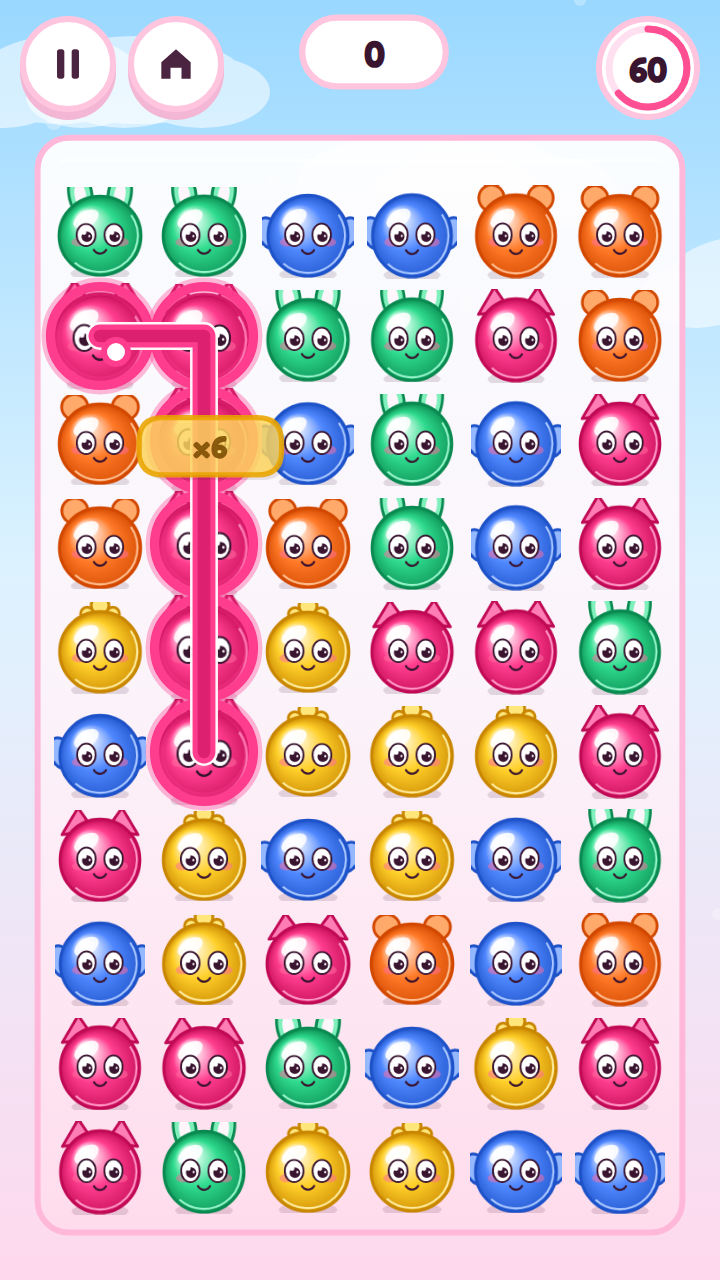
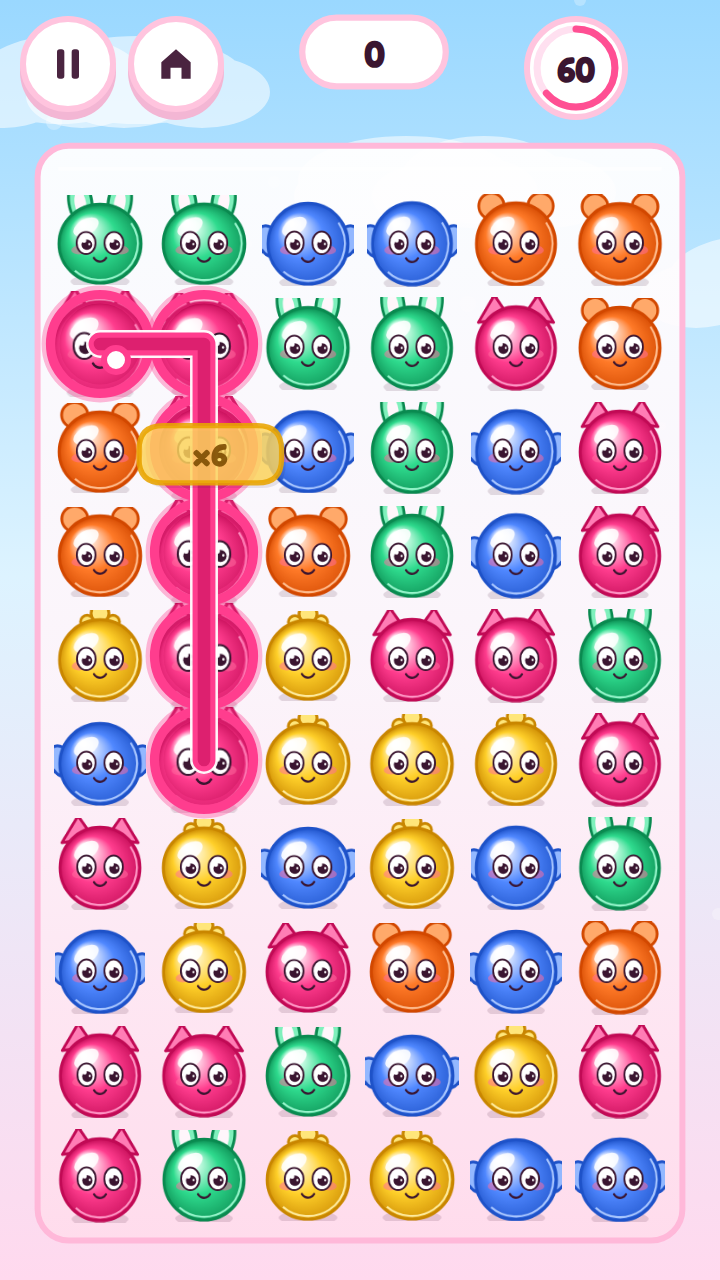
Fix timed HUD grid, reserve top inset for all play modes
- Non-adventure HUD uses grid on .hud-top-row; measure HUD height for
  timed/adventure so playfield sits below chrome.
- __checkHudBoard uses piece playfield rect; draw after layout pass.
- round6 selectors updated for hud--adventure.

diff --git a/src/app.ts b/src/app.ts
@@ -541,14 +541,14 @@ export function boot(): void {
   function measureHudInset(): { extraTop: number; side: number } {
     const sat = insetTop()
     const hudEl = document.getElementById('hud')
-    if (screen !== 'play' || !hudEl || hudEl.hidden || mode !== 'adventure') {
+    if (screen !== 'play' || !hudEl || hudEl.hidden) {
       return { extraTop: sat, side: 0 }
     }
     const landscape = innerWidth > innerHeight
     const hr = hudEl.getBoundingClientRect()
     const wantTop = Math.ceil(hr.bottom + 8)
     const extraTop = Math.max(sat, wantTop - baseHudPx())
-    const side = landscape ? Math.ceil(hr.width + 12) : 0
+    const side = landscape && mode === 'adventure' ? Math.ceil(hr.width + 12) : 0
     return { extraTop, side }
   }
 
@@ -609,7 +609,8 @@ export function boot(): void {
     }
     layout = next
     publishBoardCssVars()
-    if (layoutPass < 4 && mode === 'adventure' && screen === 'play') {
+    if (screen === 'play') draw()
+    if (layoutPass < 4 && screen === 'play') {
       requestAnimationFrame(() => applyBoardLayout())
     }
   }
@@ -1132,7 +1133,7 @@ export function boot(): void {
       timeEl.classList.toggle('pulse', secs <= 10 && screen === 'play')
       timeEl.innerHTML = `<svg viewBox="0 0 52 52" aria-hidden="true"><circle cx="26" cy="26" r="22" fill="none" stroke="#ffe0f0" stroke-width="4"/><circle cx="26" cy="26" r="22" fill="none" stroke="#ff4f93" stroke-width="4" stroke-dasharray="${dash} 88" stroke-linecap="round" transform="rotate(-90 26 26)"/></svg><span>${secs}</span>`
     }
-    if (mode === 'adventure' && screen === 'play') {
+    if (screen === 'play') {
       requestAnimationFrame(() => {
         layoutPass = 0
         applyBoardLayout()
@@ -2144,7 +2145,7 @@ export function boot(): void {
   window.__checkHudBoard = () => {
     const violations: string[] = []
     if (screen !== 'play') return { violations }
-    const br = boardRect()
+    const br = piecePlayfieldRect()
     const box = (r: DOMRect) => {
       const ix = Math.min(r.right, br.x + br.w) - Math.max(r.left, br.x)
       const iy = Math.min(r.bottom, br.y + br.h) - Math.max(r.top, br.y)

diff --git a/src/styles.css b/src/styles.css
@@ -492,6 +492,22 @@ button.ui:active { transform: translateY(2px); box-shadow: 0 1px 0 #f3b6d4; }
   padding: 0 2px;
 }
 
+#hud:not(.hud--adventure) {
+  display: block;
+}
+
+#hud:not(.hud--adventure) .hud-top-row {
+  display: grid;
+  grid-template-columns: auto minmax(72px, 1fr) minmax(52px, 150px);
+  align-items: start;
+  gap: 8px;
+  width: 100%;
+}
+
+#hud:not(.hud--adventure) .hud-goal-row {
+  display: none !important;
+}
+
 #hud.hud--adventure {
   display: flex;
   flex-direction: column;
@@ -571,7 +587,10 @@ button.ui:active { transform: translateY(2px); box-shadow: 0 1px 0 #f3b6d4; }
 .score.pop { transform: scale(1.14); transform-origin: center center; }
 
 @media (max-width: 400px) {
-  #hud:not(.hud--adventure) { gap: 4px; grid-template-columns: auto minmax(56px, 1fr) minmax(48px, 88px); }
+  #hud:not(.hud--adventure) .hud-top-row {
+    gap: 4px;
+    grid-template-columns: auto minmax(56px, 1fr) minmax(48px, 88px);
+  }
   .score { font-size: 18px; padding: 6px 10px; min-width: 72px; }
   .score.pop { transform: scale(1.04); }
 }

diff --git a/qa/round6.spec.ts b/qa/round6.spec.ts
@@ -111,7 +111,7 @@ for (const [w, h] of sizes) {
     test.setTimeout(240_000)
     await ready(page, w, h)
     await openLevel(page, 4)
-    const hud = page.locator('.adventure-hud')
+    const hud = page.locator('#hud.hud--adventure')
     await expect(hud).toBeVisible()
     await page.screenshot({ path: `/opt/cursor/artifacts/round6-star-full_${tag}.png` })
     const limit = await page.evaluate(() => {
